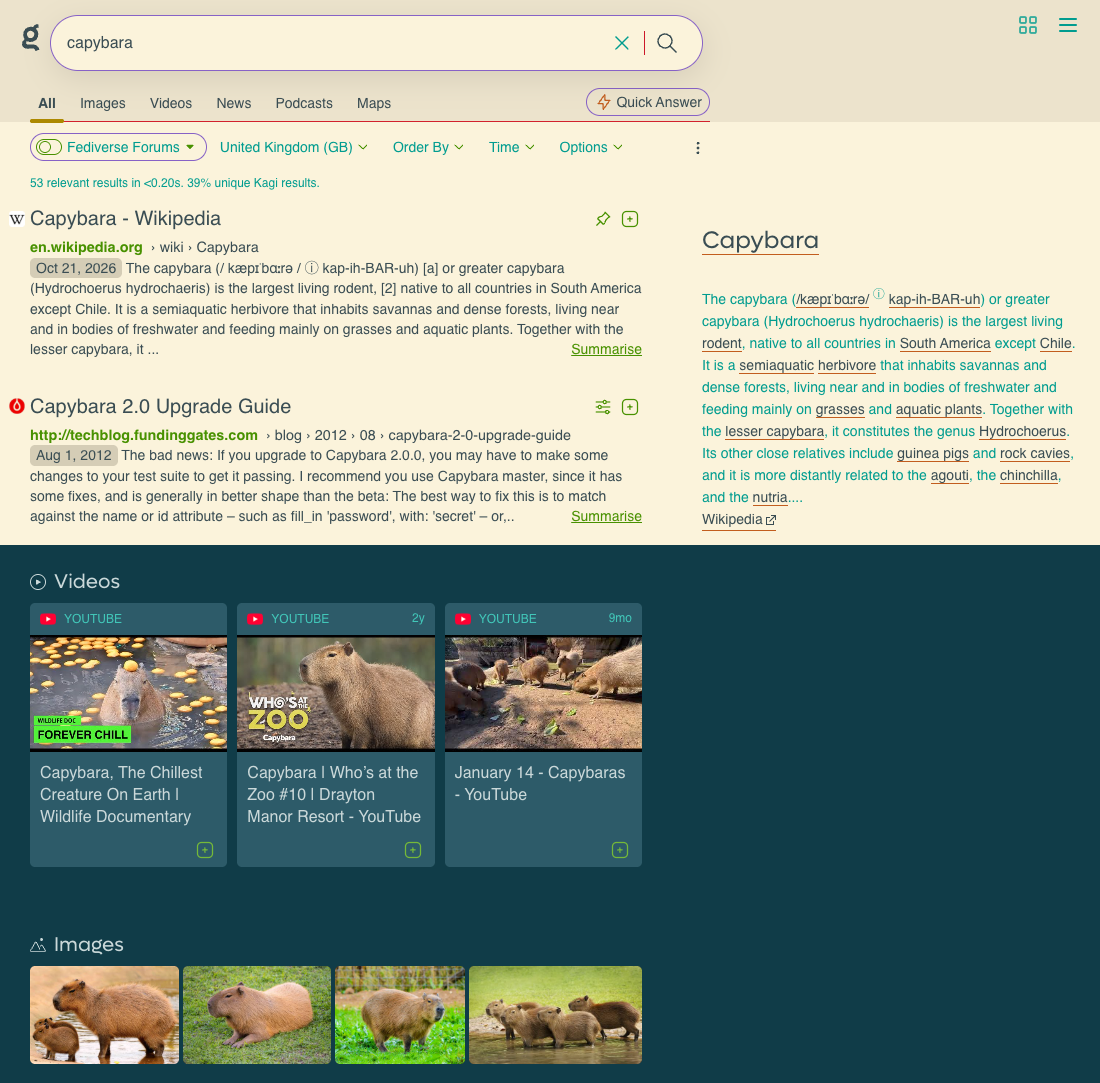
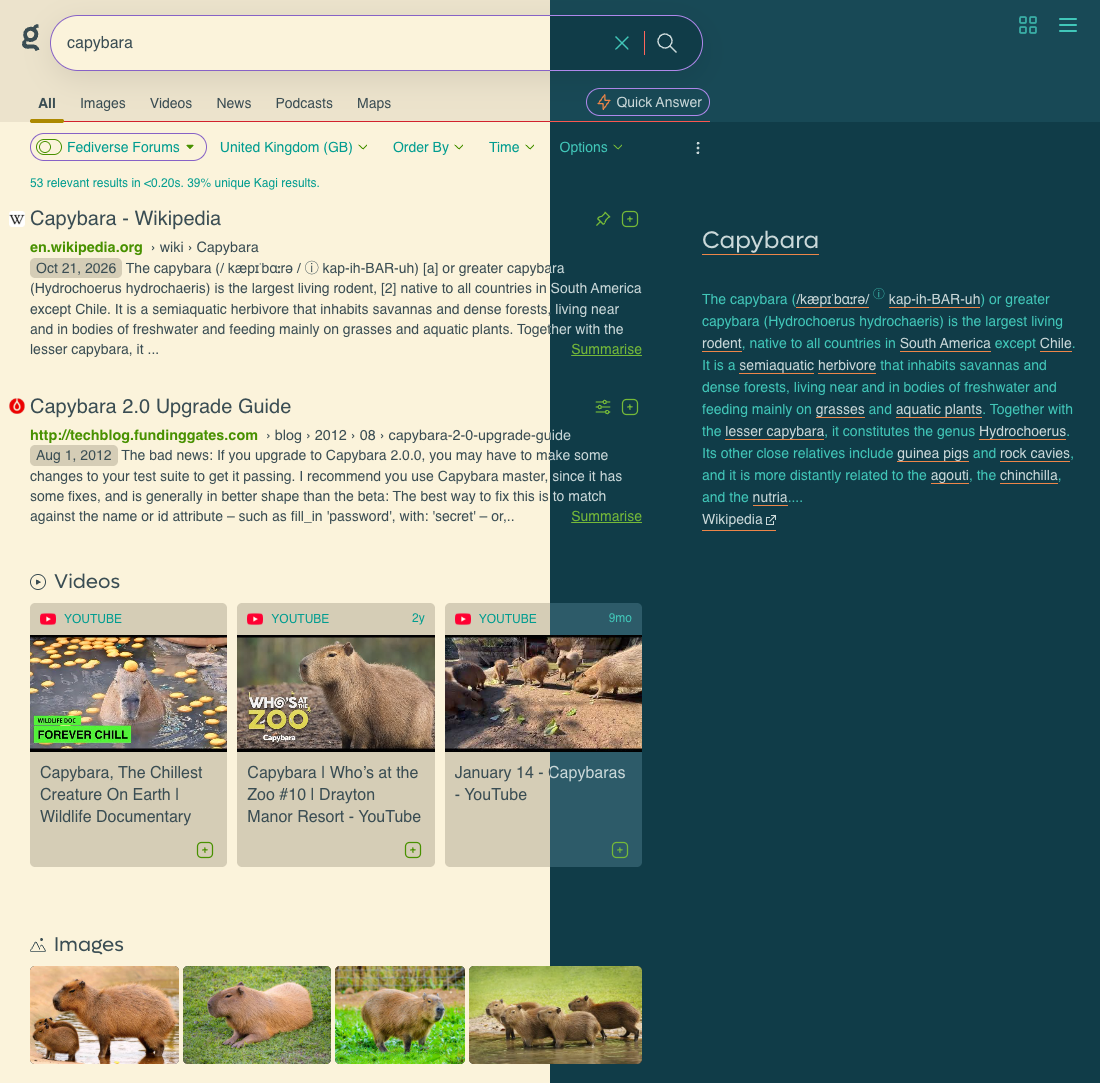
Split the combined screenshot left and right

diff --git a/README.md b/README.md
@@ -8,9 +8,9 @@ This is an unofficial theme and is not affiliated with Kagi.
 
 ## Screenshots
 
-The same page in both modes, light above the line and dark below it:
+The same page in both modes, light on the left and dark on the right:
 
-![Selenized Light above, Dark below](docs/screenshots/capybara-light-dark.png)
+![Selenized Light left, Dark right](docs/screenshots/capybara-light-dark.png)
 
 The video and image thumbnails belong to their respective owners.
 
